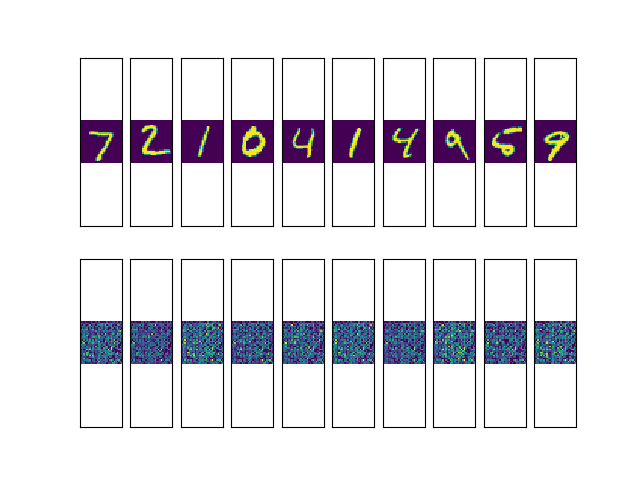
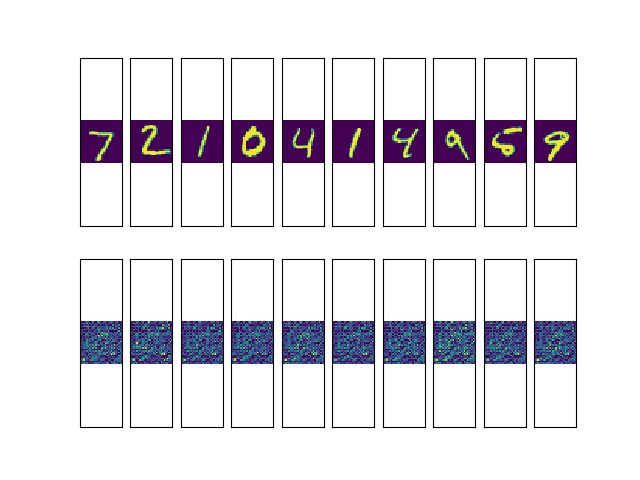
fixed the number of channels in the output of the decoder from 32 to 1

Changed region(s): [[0.125, 0.6562, 0.9062, 0.7812]]

diff --git a/mmdVAE_MNIST.py b/mmdVAE_MNIST.py
@@ -121,7 +121,7 @@ def decoderImg(z,z_dim,reuse=False):
 		
 		# 14 x 2 = 28
 		convW2 = weight_variable("convW2", [3, 3, 1, 32])
-		convB2 = bias_variable("convB2", [32])
+		convB2 = bias_variable("convB2", [1])
 		output = conv2d_t_relu(conv1, convW2, convB2, output_shape=[batch_size,28,28,1], stride=[1,2,2,1])
 		
 		return output
@@ -190,7 +190,7 @@ batch_size = 200
 sess = tf.Session()
 sess.run(tf.global_variables_initializer())
 
-for i in range(3000):
+for i in range(2000):
 	
 	# 学習データの作成
 	batch = myImage.train.next_batch(batch_size)
@@ -205,7 +205,7 @@ for i in range(3000):
 		# テストデータの作成
 		batch_test = myImage.test.next_batch(batch_size)
 		batch_x_test_img = np.reshape(batch_test[0],(batch_size,28,28,1))
-
+		
 		# テストの実行
 		test_xr_img,test_z_img = sess.run([test_xr_img_op,test_z_img_op], feed_dict={x_img: batch_x_test_img})
 
@@ -240,9 +240,6 @@ for i in range(3000):
 			fig1.axes.get_yaxis().set_ticks([])
 	
 		path = os.path.join(visualPath,"img_sample_{}.png".format(i))
-		
-
-				
 		plt.savefig(path)
 		#--------------
 
@@ -251,6 +248,4 @@ for i in range(3000):
 		saver = tf.train.Saver()
 		saver.save(sess,"./models/img_{}.ckpt".format(i))
 		#--------------
-
-#---------------------
-
+#===========================
